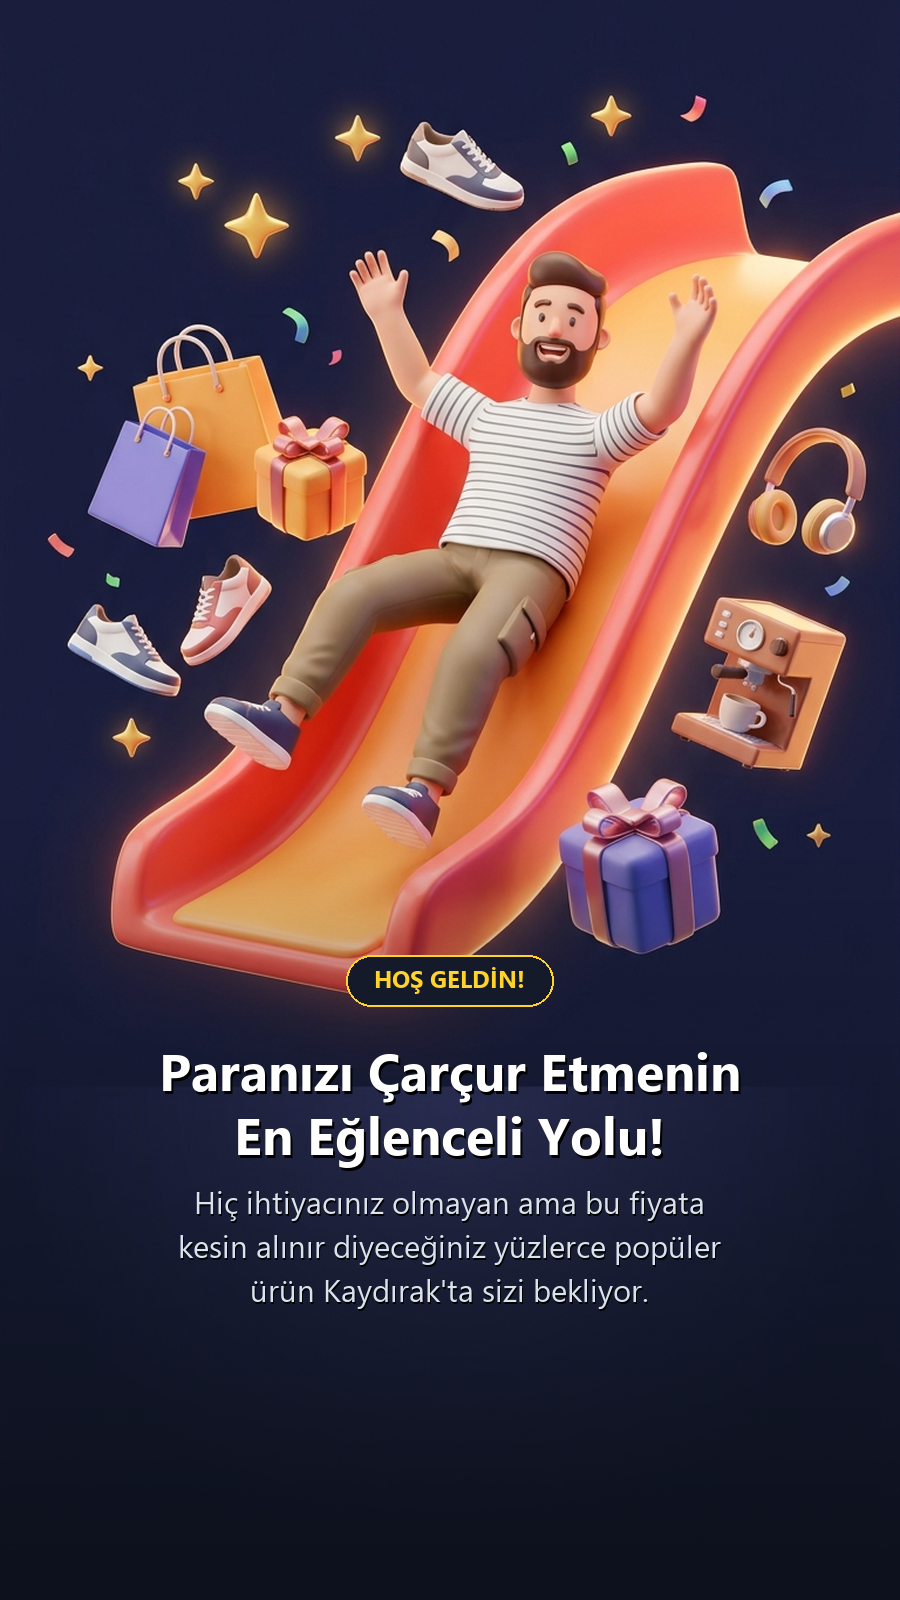
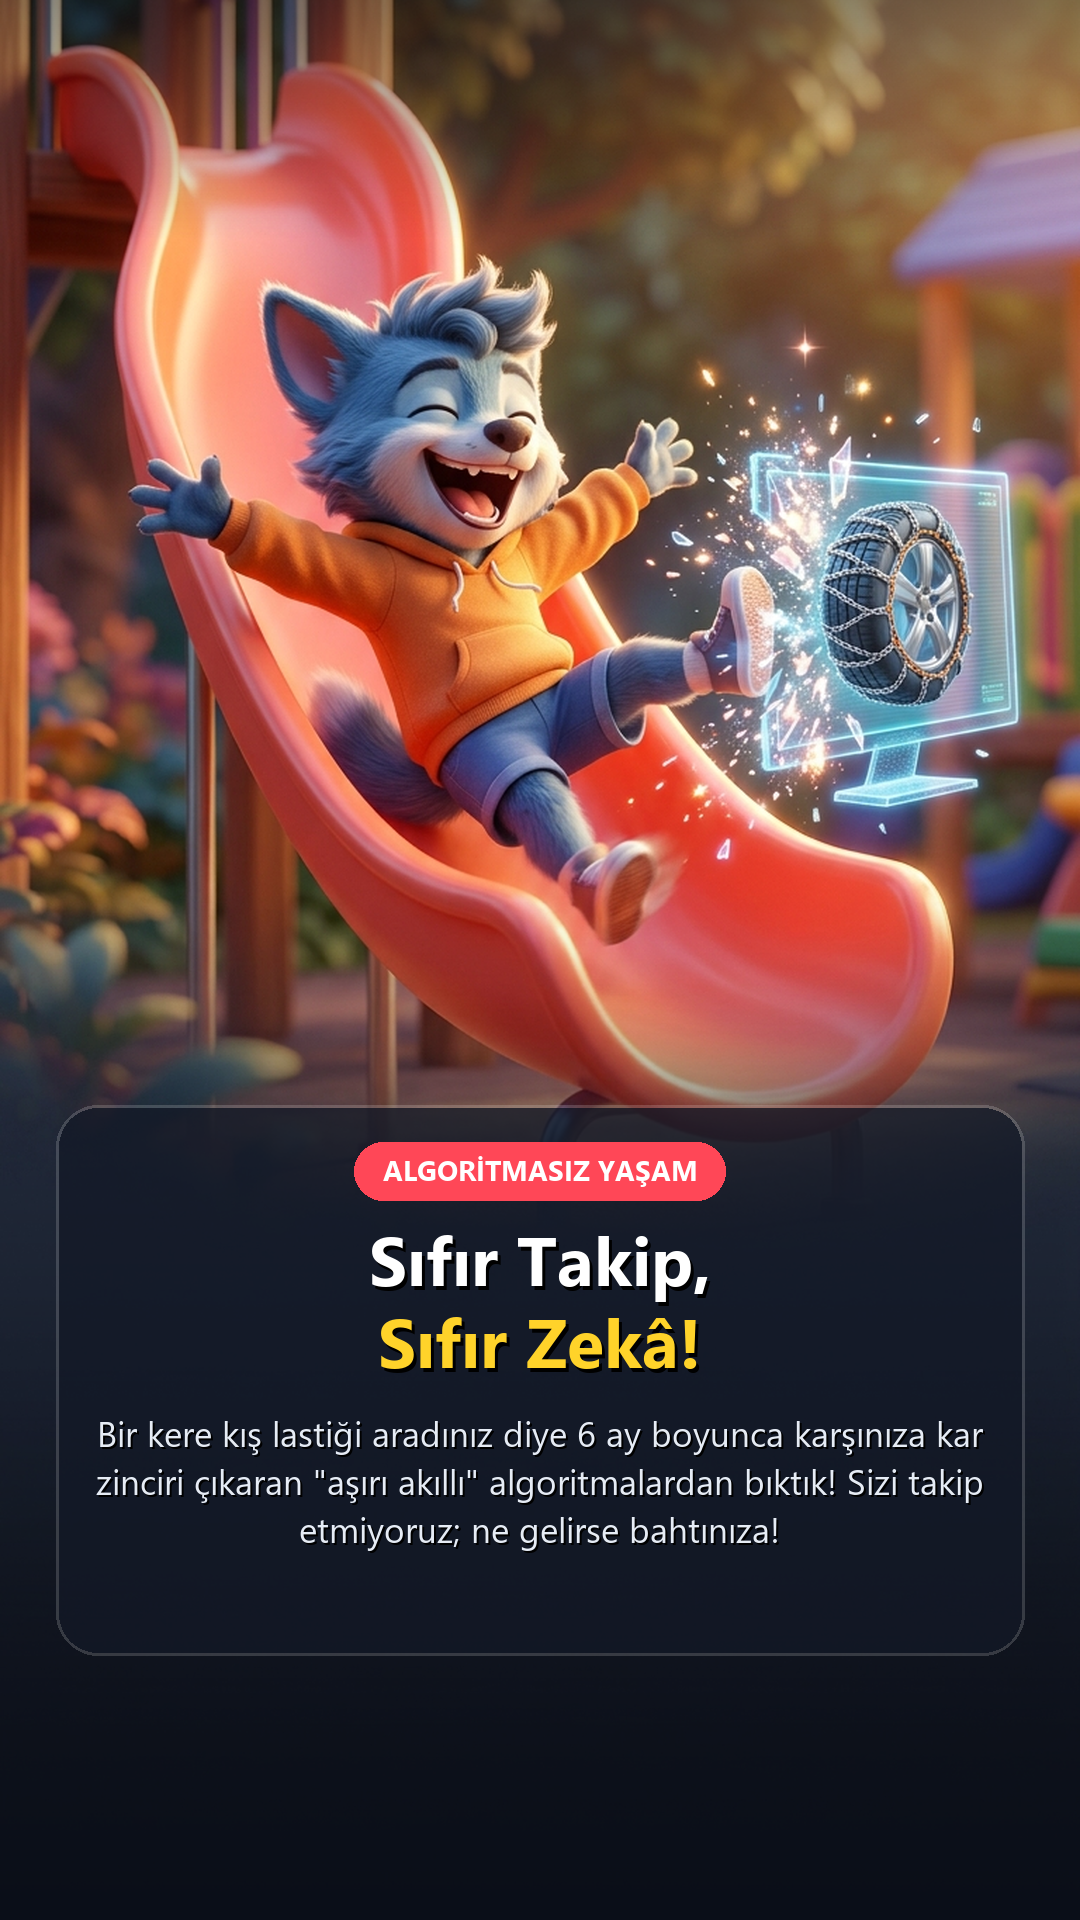
Update onboarding to 5 full-screen slides (v2.4), remove skip button and refresh version text

diff --git a/lib/screens/onboarding_screen.dart b/lib/screens/onboarding_screen.dart
@@ -20,8 +20,8 @@ class OnboardingSlide {
     return OnboardingSlide(
       id: id,
       imageUrl: json['imageUrl'] as String? ??
-          'https://raw.githubusercontent.com/exonotzor/kaydirak-app/main/assets/onboarding/slide$id.png',
-      assetFallback: 'assets/onboarding/slide${id.clamp(1, 3)}.png',
+          'https://raw.githubusercontent.com/exonotzor/kaydirak-app/main/assets/onboarding/slide${id}_v24.png',
+      assetFallback: 'assets/onboarding/slide${id.clamp(1, 5)}.png',
     );
   }
 }
@@ -58,20 +58,32 @@ class _OnboardingScreenState extends State<OnboardingScreen> {
       OnboardingSlide(
         id: 1,
         imageUrl:
-            'https://raw.githubusercontent.com/exonotzor/kaydirak-app/main/assets/onboarding/slide1.png',
+            'https://raw.githubusercontent.com/exonotzor/kaydirak-app/main/assets/onboarding/slide1_v24.png',
         assetFallback: 'assets/onboarding/slide1.png',
       ),
       OnboardingSlide(
         id: 2,
         imageUrl:
-            'https://raw.githubusercontent.com/exonotzor/kaydirak-app/main/assets/onboarding/slide2.png',
+            'https://raw.githubusercontent.com/exonotzor/kaydirak-app/main/assets/onboarding/slide2_v24.png',
         assetFallback: 'assets/onboarding/slide2.png',
       ),
       OnboardingSlide(
         id: 3,
         imageUrl:
-            'https://raw.githubusercontent.com/exonotzor/kaydirak-app/main/assets/onboarding/slide3.png',
+            'https://raw.githubusercontent.com/exonotzor/kaydirak-app/main/assets/onboarding/slide3_v24.png',
         assetFallback: 'assets/onboarding/slide3.png',
+      ),
+      OnboardingSlide(
+        id: 4,
+        imageUrl:
+            'https://raw.githubusercontent.com/exonotzor/kaydirak-app/main/assets/onboarding/slide4_v24.png',
+        assetFallback: 'assets/onboarding/slide4.png',
+      ),
+      OnboardingSlide(
+        id: 5,
+        imageUrl:
+            'https://raw.githubusercontent.com/exonotzor/kaydirak-app/main/assets/onboarding/slide5_v24.png',
+        assetFallback: 'assets/onboarding/slide5.png',
       ),
     ];
   }
@@ -198,7 +210,7 @@ class _OnboardingScreenState extends State<OnboardingScreen> {
               ),
             ),
 
-            // 2. Üst Bar: Logo & Atla Butonu
+            // 2. Üst Bar: Yalnızca Logo (Geç/Atla butonu kaldırıldı)
             Positioned(
               top: 0,
               left: 0,
@@ -209,7 +221,7 @@ class _OnboardingScreenState extends State<OnboardingScreen> {
                   padding:
                       const EdgeInsets.symmetric(horizontal: 20, vertical: 12),
                   child: Row(
-                    mainAxisAlignment: MainAxisAlignment.spaceBetween,
+                    mainAxisAlignment: MainAxisAlignment.start,
                     children: [
                       Container(
                         padding: const EdgeInsets.symmetric(
@@ -243,27 +255,6 @@ class _OnboardingScreenState extends State<OnboardingScreen> {
                           ],
                         ),
                       ),
-                      if (!isLastPage)
-                        TextButton(
-                          onPressed: _completeOnboarding,
-                          style: TextButton.styleFrom(
-                            foregroundColor: Colors.white,
-                            backgroundColor:
-                                Colors.black.withValues(alpha: 0.45),
-                            shape: RoundedRectangleBorder(
-                              borderRadius: BorderRadius.circular(14),
-                            ),
-                            padding: const EdgeInsets.symmetric(
-                                horizontal: 14, vertical: 6),
-                          ),
-                          child: const Text(
-                            'Atla',
-                            style: TextStyle(
-                              fontSize: 13,
-                              fontWeight: FontWeight.w800,
-                            ),
-                          ),
-                        ),
                     ],
                   ),
                 ),

diff --git a/lib/screens/story_feed_screen.dart b/lib/screens/story_feed_screen.dart
@@ -210,7 +210,7 @@ class _StoryFeedScreenState extends State<StoryFeedScreen>
     ScaffoldMessenger.of(context).showSnackBar(
       SnackBar(
         content: Text(
-          '✨ v2.1: ${_allDeals.length} güncel ürün hazır!',
+          '✨ ${_allDeals.length} güncel ürün hazır!',
           style:
               const TextStyle(fontWeight: FontWeight.bold, color: Colors.white),
         ),
